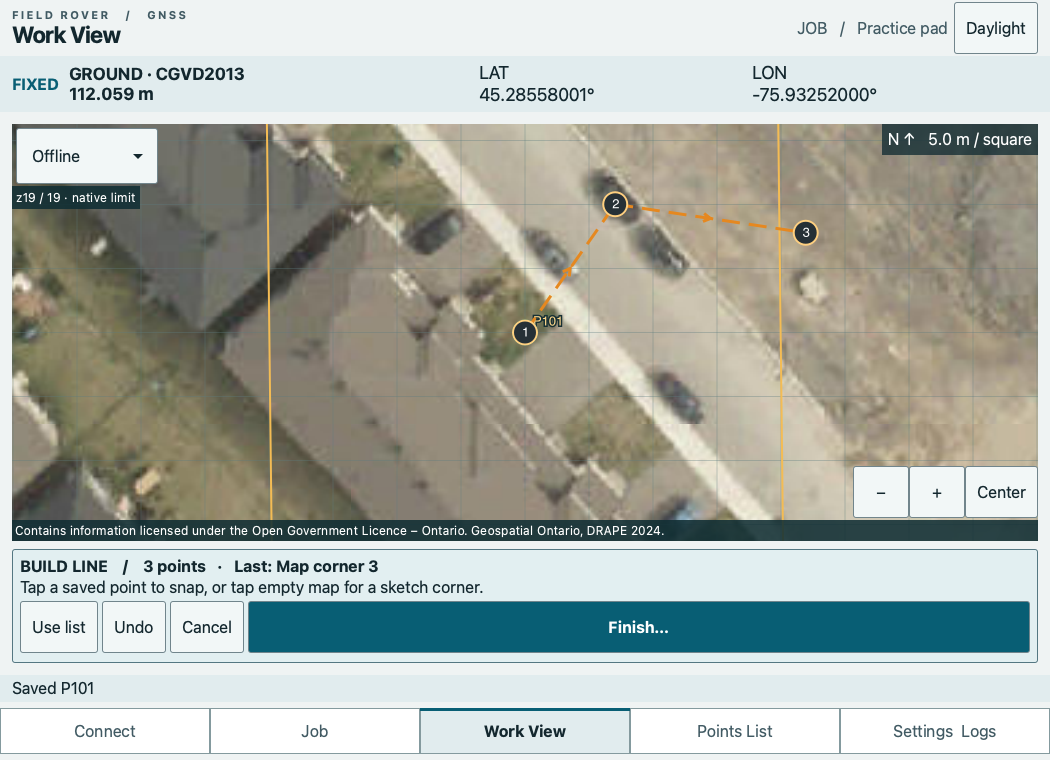
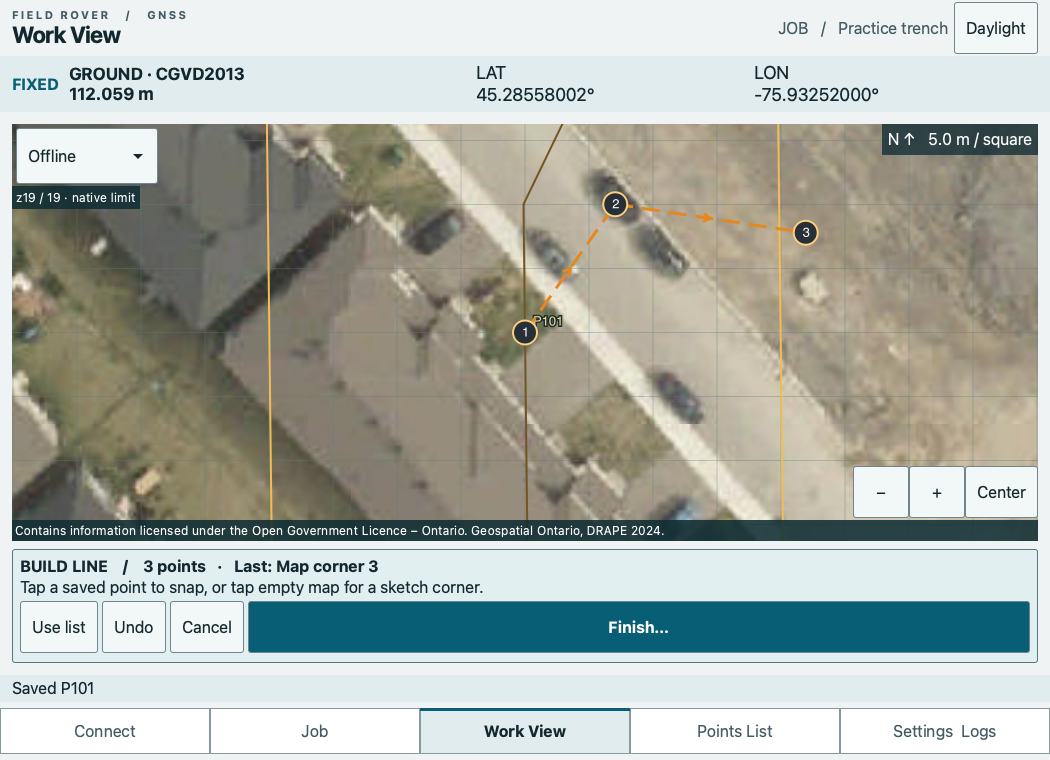
Updated the screenshots.

diff --git a/README.md b/README.md
@@ -4,22 +4,32 @@ Field Rover turns a tablet or laptop into a **survey data collector for the Trim
 
 Built with **C++17 and Qt Quick** for Android, Linux, Windows, and macOS. A bundled practice rover, design surface, and aerial map let you try the field workflow without hardware or a caster account.
 
-![Daylight Work View showing the site toolbar, the practice rover on offline imagery, and the 3D surface and grade gauge docked together](docs/screenshots/work-view-daylight.png)
+![Current Daylight Work View with an icon toolbar, offline aerial imagery, vertical cut/fill gauge and graphical line-follow instrument](docs/screenshots/work-view-daylight.png)
 
-*The practice rover is on grade at 112.058 m CGVD2013. The orange outline marks the design surface; the green band shows the allowed tolerance.*
+*The simulated rover needs 0.200 m of fill to reach the manual elevation target and is 0.500 m left of the offset excavation centre. Grade and horizontal guidance are shown together.*
 
 ## In the field
 
 - **Collect points and benchmarks.** Store one fresh epoch with a tap, or hold the pole stationary for a timed occupation. Each record keeps its fix quality, base, antenna setup, and height reference. Jobs are saved locally in SQLite and export to CSV.
 - **Follow a grade.** Enter a target elevation or load a metric LandXML triangle mesh. The gauge shows how much to **cut** or **fill** after subtracting pole height. It clears when the position goes stale or the rover leaves the surface.
 - **Build a measured surface.** Enable survey coverage in Work View to mark each stored shot with a sampling footprint. Review the included points, preview the triangles and export the surveyed ground as LandXML.
-- **Follow a feature or trench edge.** Build a line by tapping the map or selecting stored points in order—no coordinate-system entry required. Import straight DXF linework or guide to either trench edge using a centre offset and full width. [Try the practice trench](docs/field-guide.md#follow-the-practice-trench).
+- **Follow a feature or trench edge.** Build a line by tapping the map or selecting stored points in order—no coordinate-system entry required. Import straight DXF linework, choose Left or Right, and set the excavation offset and full width. The line-follow graphic shows the rover, target and trench boundaries beside the grade gauge. [Try the practice trench](docs/field-guide.md#follow-the-practice-trench).
 - **Work without a basemap connection.** Use a local grid or import raster MBTiles for the job. OpenStreetMap streets and online imagery are optional; missing tiles never block capture. Live NTRIP corrections still require a connection to the caster.
-- **Choose the instruments you need.** Keep latitude, longitude, and ground elevation visible while toggling the gauge, a device bubble level on supported hardware, or a 3D surface preview. Switch between Daylight, Dark, and system appearance.
+- **Choose the instruments you need.** The icon toolbar separates site tools from instrument toggles. Keep latitude, longitude, and ground elevation visible while docking or floating the gauge and 3D surface preview. A device bubble level is available on supported hardware. Switch between Daylight, Dark, and system appearance.
 
-| Portrait Work View in Dark mode | 3D preview of the practice pad |
+## Screenshots
+
+Captured from the current native macOS build using the bundled practice rover and offline aerial map. Portrait captures demonstrate the responsive layout, not a physical tablet test.
+
+| Dark mode · portrait | Follow setup · explicit side and target choices |
 | --- | --- |
-| <img src="docs/screenshots/work-view-portrait.png" alt="Portrait layout with coordinates above the map and Store point below the grade gauge" width="260"> | <img src="docs/screenshots/surface-preview.png" alt="Two LandXML triangles forming a sloped pad, with the rover marked in yellow" width="360"> |
+| <img src="docs/screenshots/work-view-portrait.png" alt="Dark portrait Work View with icon buttons, a fill gauge and fixed capture controls" width="260"> | <img src="docs/screenshots/follow-setup.png" alt="Follow feature dialog with visible Left and Right buttons, offset and width fields, centre or edge selection, and a fixed Start following action" width="520"> |
+
+| Docked grade and 3D instruments | Build a line on the map |
+| --- | --- |
+| <img src="docs/screenshots/docked-instruments.png" alt="The 3D surface preview docked below the map beside the grade gauge, with separate Float controls" width="480"> | <img src="docs/screenshots/map-line-builder.png" alt="A numbered line draft with a snapped survey point and two map corners; Use list, Undo, Cancel and Finish remain visible" width="480"> |
+
+The same setup dialog [adapts to a smaller screen](docs/screenshots/follow-setup-compact.png) while keeping its action buttons visible. The [3D preview can also float](docs/screenshots/surface-preview.png) independently of Work View.
 
 ## Try the grading walk
 

diff --git a/docs/field-guide.md b/docs/field-guide.md
@@ -34,7 +34,7 @@ The vertical gauge has a fixed ±250 mm scale, with 10 mm ticks and numbered 50 
 
 1. Create or open a practice job with a **2.000 m** vertical pole height. In **Work View → Design** (or **Job → Grade & surface setup**), select **Design surface → Practice surface**. Set tolerance to **0.020 m**, then tap **Use design**.
 2. In **Connect**, disconnect any previous session and tap **Start grading walk (36 s)**. The synthetic rover moves east at 1 m/s. Expect **CUT ~0.200 m** at the start, **ON GRADE** near 10 s, **FILL ~0.200 m** near 20 s, and **Outside design surface** after crossing the east edge. The same walk is available through a mock serial port with `python3 tools/mock5700.py --walk`.
-3. To try a constant elevation, use the **stationary** practice replay instead. Choose **Grade… → Manual target**, enter **112.258 m**, and select **CGVD2013**. Ground should be about **112.058 m** and the instruction **FILL 0.200 m**. Positive ground-minus-design means cut; negative means fill. The numerical value is the full difference even when the visual bar reaches its end.
+3. To try a constant elevation, use the **stationary** practice replay instead. Choose **Design → Manual elevation**, enter **112.258 m**, select **CGVD2013**, and tap **Use elevation**. Ground should be about **112.058 m** and the instruction **FILL 0.200 m**. Positive ground-minus-design means cut; negative means fill. The numerical value is the full difference even when the visual bar reaches its end.
 
 [practice-pad.landxml](../fixtures/practice-pad.landxml) is also a standalone file for **Open LandXML file…**. It defines a 40 × 40 m pad in EPSG:2959, rising 2% east. The importer reads named LandXML TIN surfaces in metres with a declared NAD83(CSRS) UTM EPSG code (zones 7–24N) and `verticalCoordinateSystemName` of `CGVD2013` or `Ellipsoid`. Choose a named surface and confirm the rover's frame matches before applying it. TIN vertices use **northing, easting, elevation** order. Only visible triangles supply elevations; edges are included, gaps aren't interpolated. Export explicitly clipped boundaries as clipped triangles first. The import limit is 16 MiB.
 
@@ -70,7 +70,7 @@ The footprints describe sample reach; a shot does not measure the elevation of i
 3. Tap **Drain A / 10** in the list, or select it using **Work View → Follow**. Tap **Right**, enter a **0.50 m** offset and **1.20 m** full width. Choose **Right edge** and tap **Start following**. On the map the arrowed solid line is the plan feature, the dashed line the offset centre, and the paired boundaries the edges. In the **Line Follow** instrument beside the grade gauge, the dashed target stays centred: the circle shows the rover, the shaded band shows the excavation, and the solid line marks the original plan feature. The numerical distance remains exact beyond the graphic’s scale. Segment lock and float acceptance are under **Options**.
 4. Start the **grading walk** in Connect. The rover walks east across the trench. Looking from the first vertex toward the last, a rover **0.80 m right of the plan line** is **inside**, **0.30 m right of centre** and **0.30 m left of the right edge**. The reading tells you where the rover *is*, not which way to move. These are projected grid metres. For a centred trench, leave the centre offset at zero and enter its full width.
 
-![Practice rover following the right trench edge with recorded sample footprints on the offline aerial map](screenshots/trench-follow.png)
+![Practice rover inside the trench and left of the offset centre, with graphical horizontal guidance beside the fill gauge](screenshots/trench-follow.png)
 
 **Create a line:** Tap **New line** on the map toolbar or **New line from points** in Points List. Tap saved points in the order you want to follow them. On the map, tapping empty space adds an approximate sketch corner; nearby stored points snap, and closely spaced candidates open a picker. Switch with **Use map / Use list** without losing the draft. Tap **Finish**, review or reorder the numbered corners, then **Save line**. You can keep the suggested name. No coordinate-system entry is needed, even for a job without a declared grid.
 
